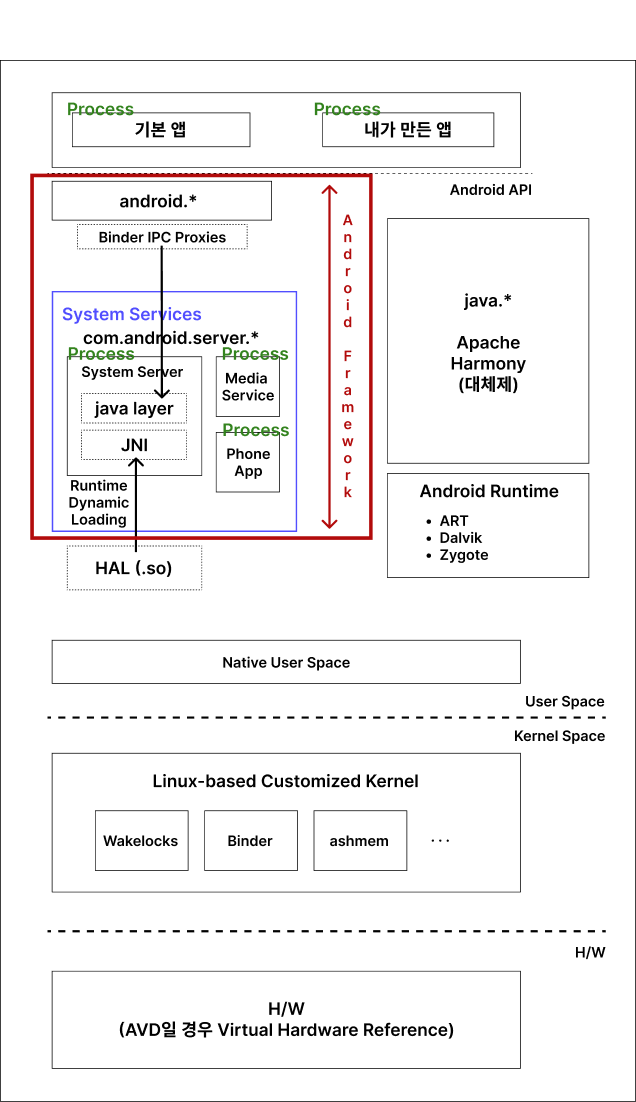
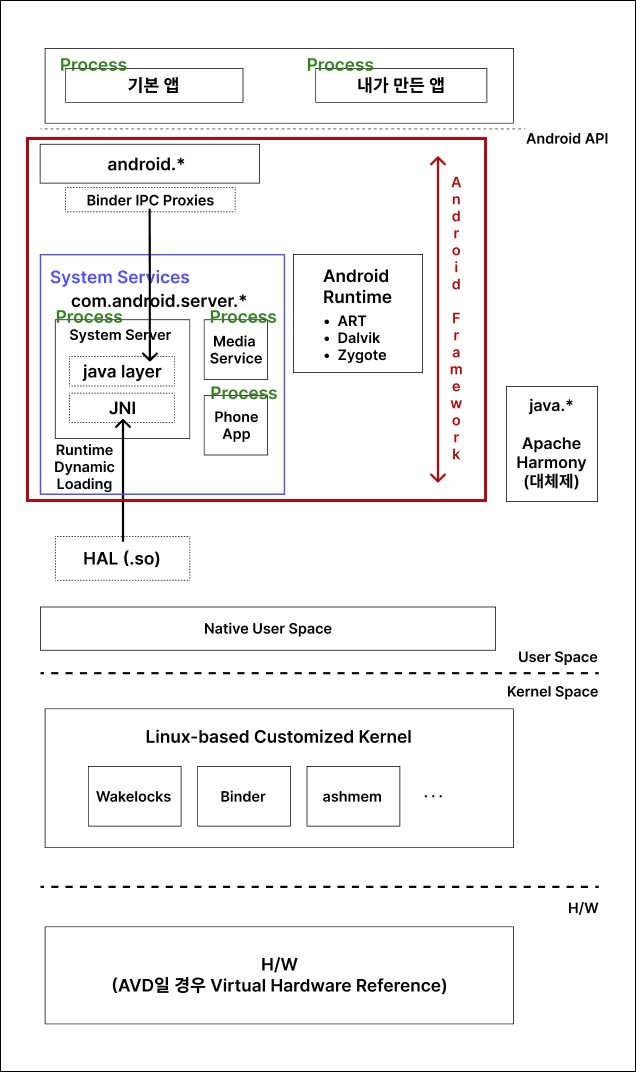
doc: add android architecture - framework

diff --git a/android/architecture.md b/android/architecture.md
@@ -12,12 +12,12 @@
 안드로이드는 모든 시스템 기능을 **서버 프로세스** 형태로 제공합니다. 사용자 어플리케이션과 시스템 서비스 간의 통신을 설명한 그림들을 보면 대부분 계층이 나뉘어진 것처럼 표현한 경우가 많습니다. 안드로이드 입문자 입장에서는 계층이 분리되어 있다는 오해를 살 수도 있는 표현 방식이라고 생각합니다. 그러나 사실 앱 개발자가 개발한 응용 프로그램이나 시스템 서비스나 모두 같은 층의 유저 공간에서 실행되는 리눅스 프로세스에 불과합니다. 보다 더 쉬운 이해를 위해 이미지를 첨부합니다.
 ![User Space Linux Processes](/android/images/user-space-processes.png)
 
-## Android Framework
-어디까지가 안드로이드 프레임워크인가?
-![Overall Architecture System Services](/android/images/android-overall-architecture.png)
+## Application Framework
+어플리케이션 프레임워크는 시스템 서비스, 안드로이드 런타임 등의 집합입니다.
+
 ![Scope Of Framework](/android/images/android-framework.png)
 
-(미완)
+![Overall Architecture System Services](/android/images/android-overall-architecture.png)
 
 ### Init
 안드로이드 OS의 부팅 과정도 보통의 리눅스와 동일합니다. 커널 부팅 작업의 마지막 단계로 init.rc 설정 파일에 의거하여 init 프로세스를 실행하는 것입니다.(물론 안드로이드 환경에서 init.rc는 그 플랫폼 특성에 맞게 몇 가지 특별한 설정이 추가되어 있습니다.) 여기서 init이란 유저 모드(user space)에서 가장 처음 실행되는 프로세스로, 그 후 생성되는 유저 모드의 모든 어플리케이션의 부모가 됩니다. 

diff --git a/android/custom-view.md b/android/custom-view.md
@@ -1,1 +1,2 @@
 # 커스텀 뷰
+
